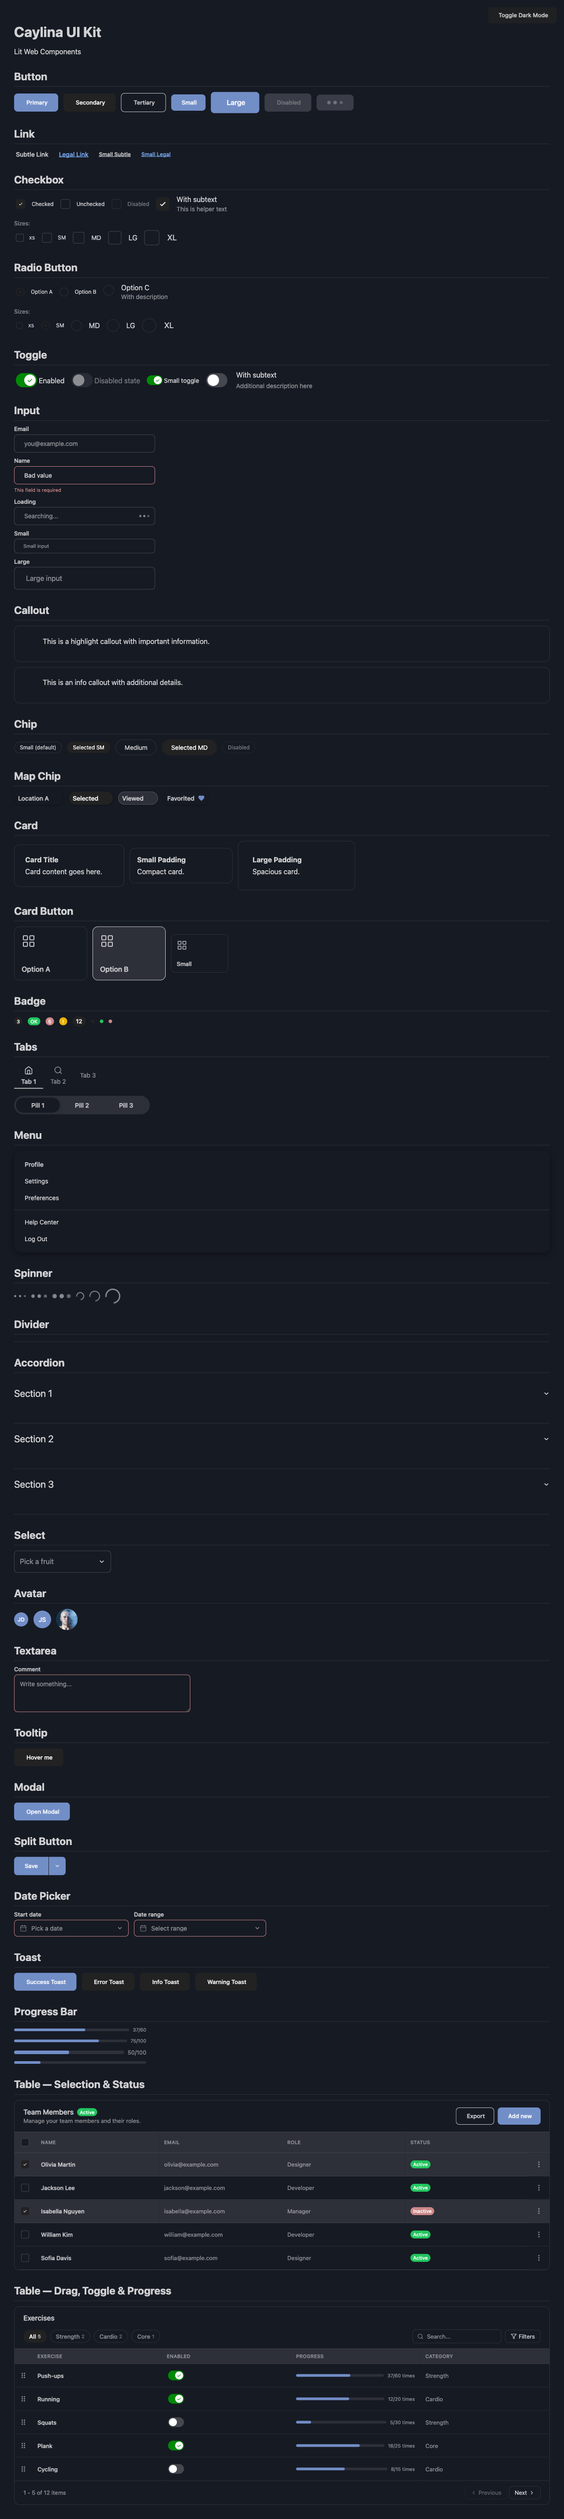
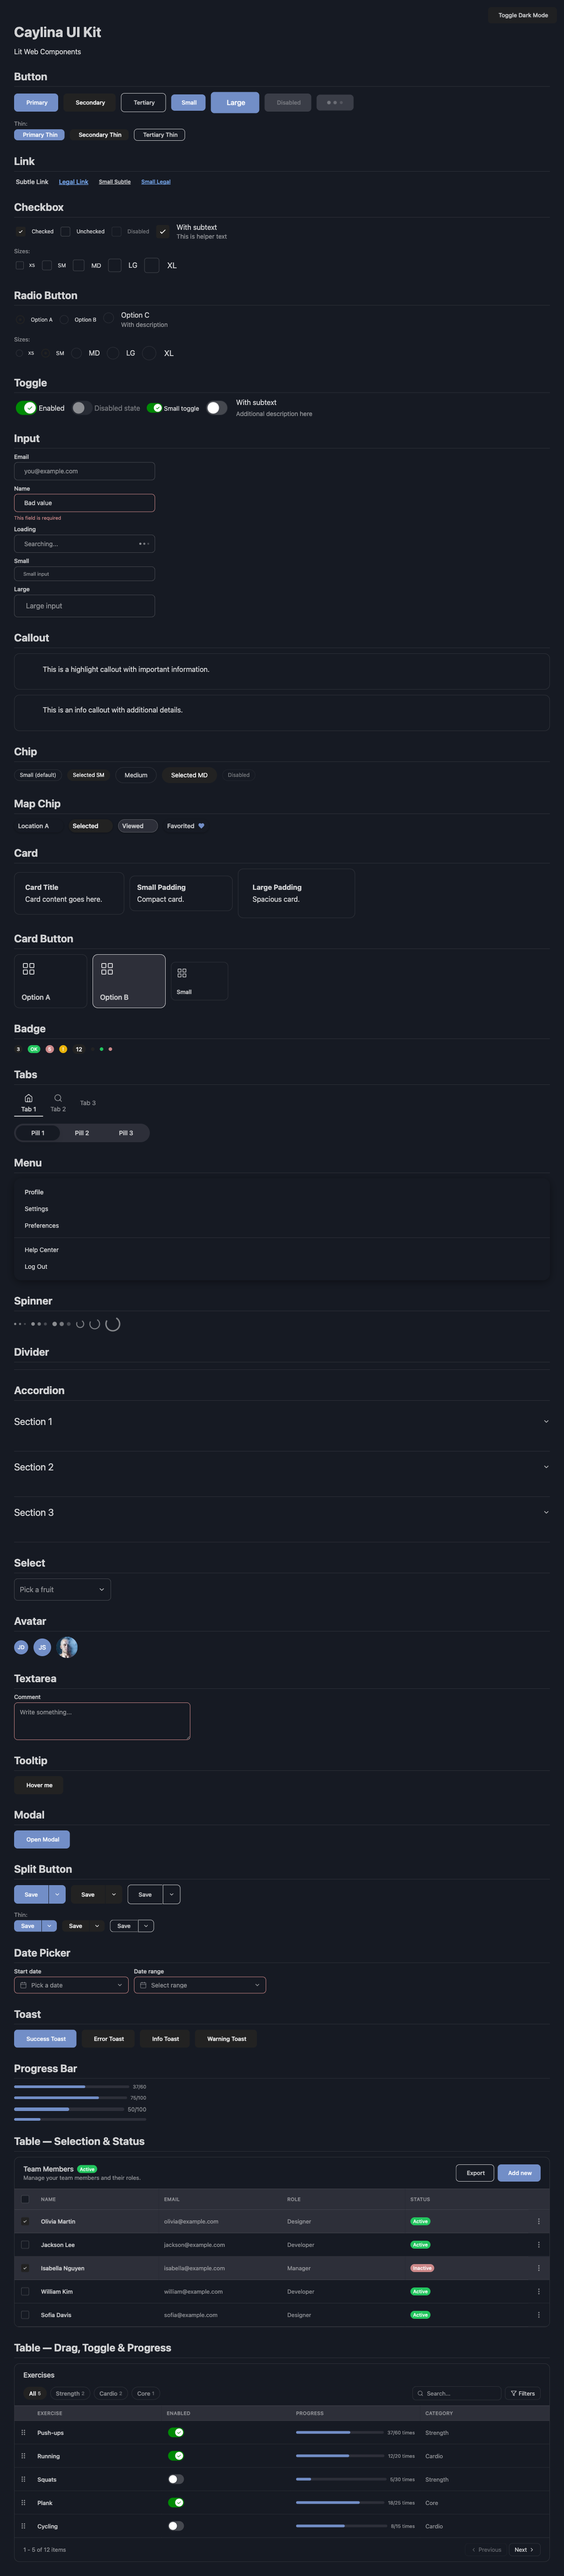
Add thin size variant to button and split button
- New size="thin" option with reduced vertical padding (6px) for compact UIs
- Split button now demoed in all three variants (primary, secondary, tertiary)
- Updated screenshots to reflect new button variants

diff --git a/index.html b/index.html
@@ -39,6 +39,12 @@
     <ca-button variant="primary" disabled>Disabled</ca-button>
     <ca-button variant="primary" loading>Loading</ca-button>
   </div>
+  <p style="margin: 8px 0 4px; font-size: 13px; color: var(--ca-text-muted);">Thin:</p>
+  <div class="row">
+    <ca-button variant="primary" size="thin">Primary Thin</ca-button>
+    <ca-button variant="secondary" size="thin">Secondary Thin</ca-button>
+    <ca-button variant="tertiary" size="thin">Tertiary Thin</ca-button>
+  </div>
 
   <!-- ─── Link ─── -->
   <h2>Link</h2>
@@ -304,12 +310,26 @@
   <h2>Split Button</h2>
   <div class="row">
     <ca-split-button label="Save" variant="primary" id="demo-split-button"></ca-split-button>
+    <ca-split-button label="Save" variant="secondary" id="demo-split-secondary"></ca-split-button>
+    <ca-split-button label="Save" variant="tertiary" id="demo-split-tertiary"></ca-split-button>
+  </div>
+  <p style="margin: 8px 0 4px; font-size: 13px; color: var(--ca-text-muted);">Thin:</p>
+  <div class="row">
+    <ca-split-button label="Save" variant="primary" size="thin" id="demo-split-thin-primary"></ca-split-button>
+    <ca-split-button label="Save" variant="secondary" size="thin" id="demo-split-thin-secondary"></ca-split-button>
+    <ca-split-button label="Save" variant="tertiary" size="thin" id="demo-split-thin-tertiary"></ca-split-button>
   </div>
   <script type="module">
-    document.getElementById('demo-split-button').options = [
+    const splitOpts = [
       { value: 'save-draft', label: 'Save as Draft' },
       { value: 'save-publish', label: 'Save & Publish' },
     ];
+    document.getElementById('demo-split-button').options = splitOpts;
+    document.getElementById('demo-split-secondary').options = splitOpts;
+    document.getElementById('demo-split-tertiary').options = splitOpts;
+    document.getElementById('demo-split-thin-primary').options = splitOpts;
+    document.getElementById('demo-split-thin-secondary').options = splitOpts;
+    document.getElementById('demo-split-thin-tertiary').options = splitOpts;
   </script>
 
   <!-- ─── Date Picker ─── -->

diff --git a/src/lit/split-button.ts b/src/lit/split-button.ts
@@ -15,6 +15,9 @@ export class CaSplitButton extends LitElement {
     .main-button { border-radius: var(--ca-radius-button) 0 0 var(--ca-radius-button); }
     .dropdown-trigger { border-radius: 0 var(--ca-radius-button) var(--ca-radius-button) 0; }
     .divider { width: 1px; align-self: center; height: 60%; flex-shrink: 0; }
+    /* Size: thin */
+    :host([size="thin"]) .main-button { padding: 6px 16px; font-size: 13px; }
+    :host([size="thin"]) .dropdown-trigger { padding: 6px 10px; }
     /* Size: xs */
     :host([size="xs"]) .main-button { padding: 8px 16px; font-size: 11px; }
     :host([size="xs"]) .dropdown-trigger { padding: 8px 10px; }
@@ -63,7 +66,7 @@ export class CaSplitButton extends LitElement {
   `;
 
   @property({ type: String, reflect: true }) variant: 'primary' | 'secondary' | 'tertiary' = 'primary';
-  @property({ type: String, reflect: true }) size: 'xs' | 'sm' | 'md' | 'lg' = 'md';
+  @property({ type: String, reflect: true }) size: 'thin' | 'xs' | 'sm' | 'md' | 'lg' = 'md';
   @property({ type: Array }) options: SplitButtonOption[] = [];
   @property({ type: String }) value = '';
   @property({ type: String }) label = '';

diff --git a/src/lit/button.ts b/src/lit/button.ts
@@ -32,6 +32,7 @@ export class CaButton extends LitElement {
     }
 
     /* Sizes */
+    .button.thin { padding: 6px 16px; font-size: var(--ca-font-size-sm); }
     .button.xs { padding: 8px 16px; font-size: var(--ca-font-size-xs); }
     .button.sm { padding: 12px 20px; font-size: var(--ca-font-size-sm); }
     .button.md { padding: 14px 24px; font-size: var(--ca-font-size-sm); }
@@ -132,7 +133,7 @@ export class CaButton extends LitElement {
   `;
 
   @property({ type: String, reflect: true }) variant: 'primary' | 'secondary' | 'tertiary' = 'primary';
-  @property({ type: String, reflect: true }) size: 'xs' | 'sm' | 'md' | 'lg' | 'full' = 'md';
+  @property({ type: String, reflect: true }) size: 'thin' | 'xs' | 'sm' | 'md' | 'lg' | 'full' = 'md';
   @property({ type: Boolean, reflect: true }) disabled = false;
   @property({ type: Boolean, reflect: true }) loading = false;
 
